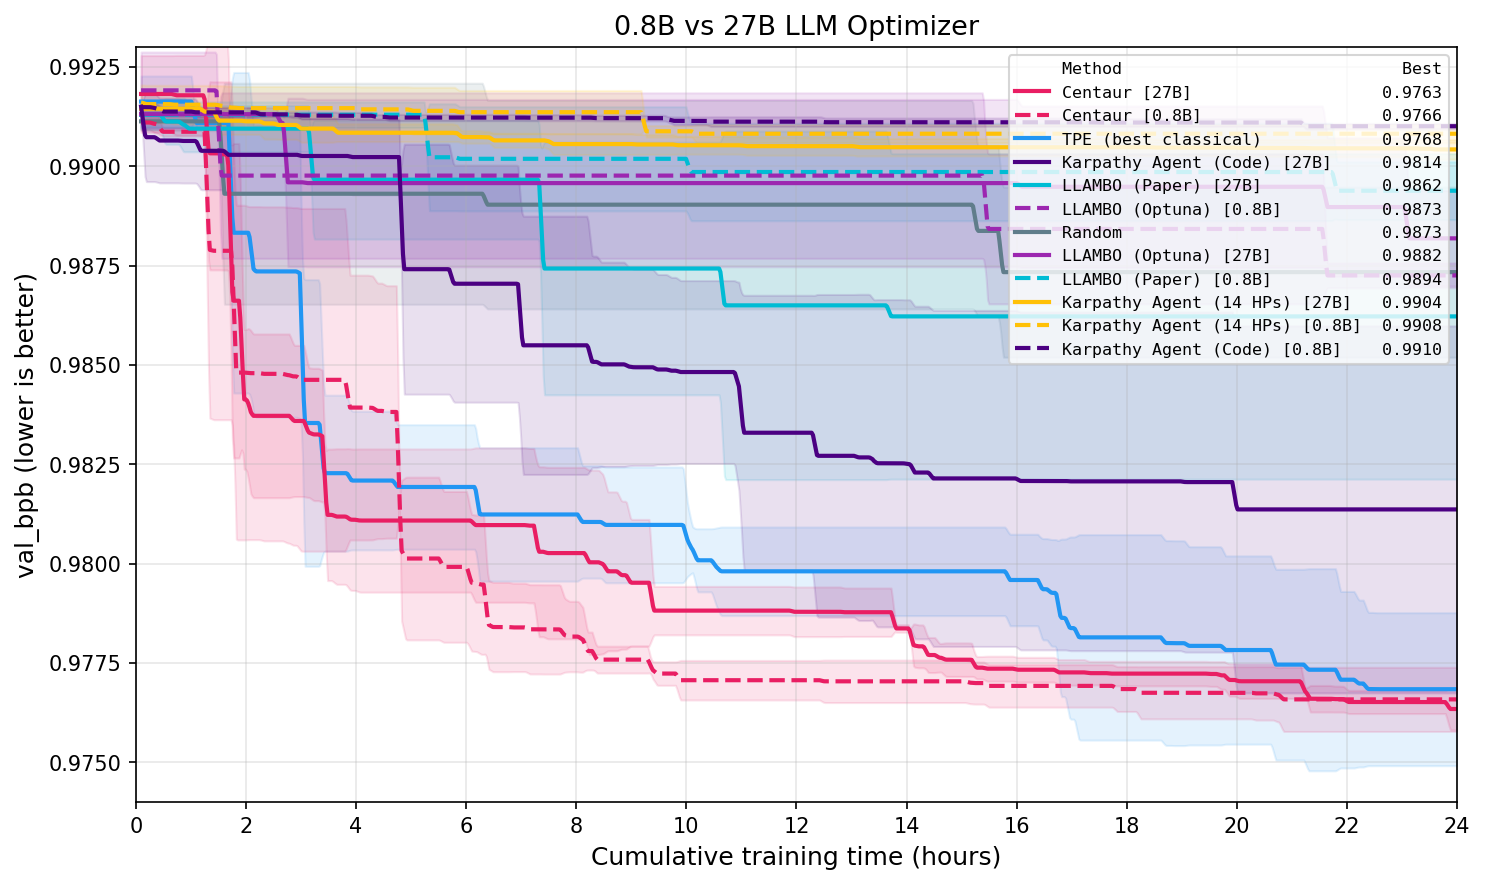
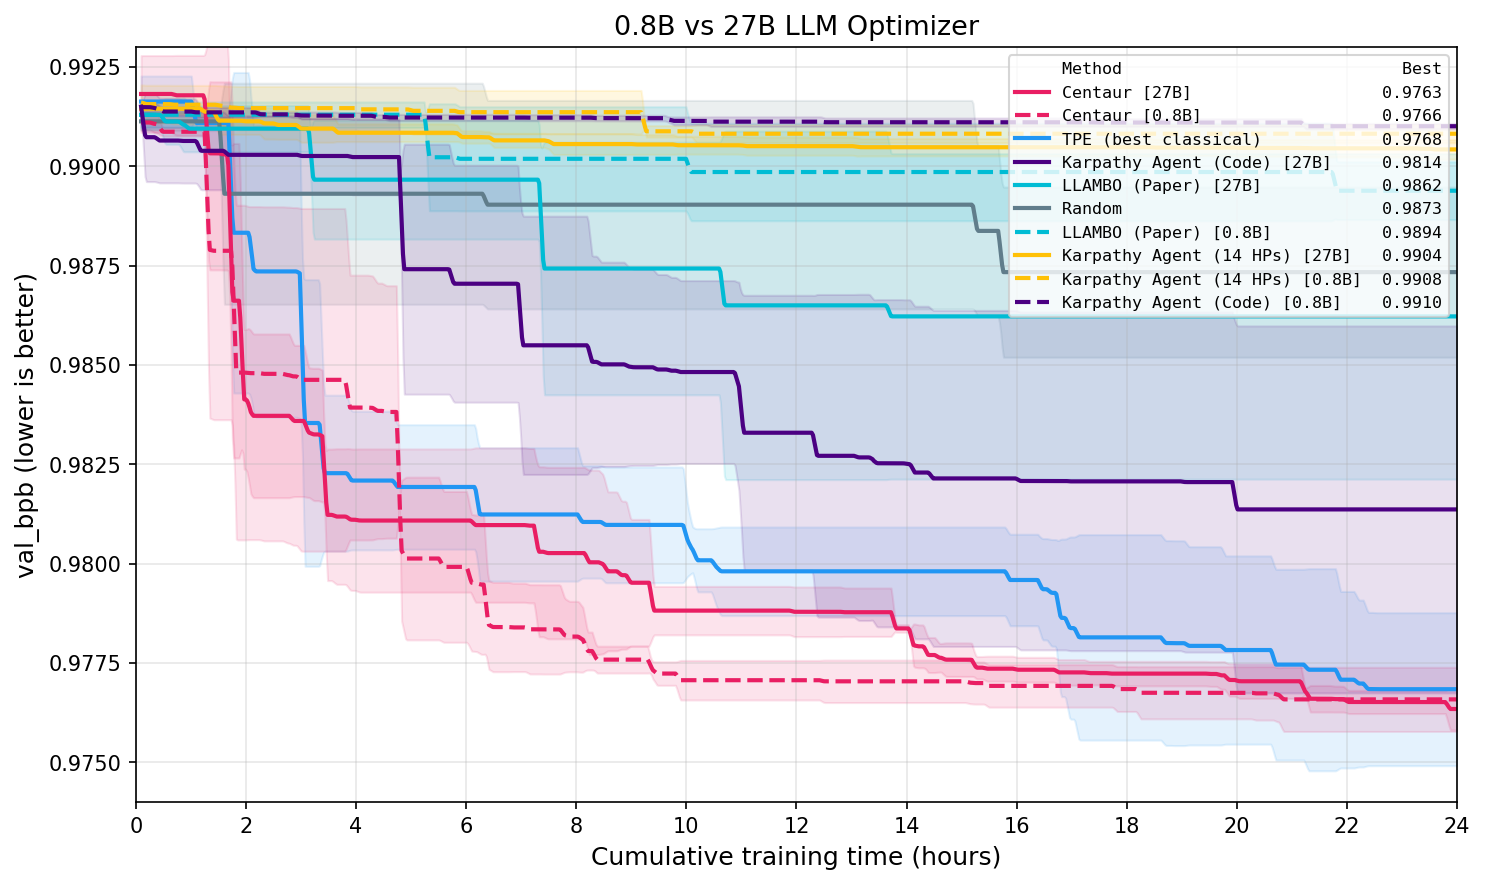
Remove LLAMBO Optuna from main figures, reduce band opacity to 0.03

Changed region(s): [[0.0929, 0.0916, 0.9912, 0.4276]]

diff --git a/scripts/plot_convergence.py b/scripts/plot_convergence.py
@@ -205,7 +205,7 @@ def plot_convergence_multi(
         best_val = np.nanmin(mean)
         line, = ax.plot(x, mean, color=style["color"], linewidth=2,
                         linestyle=style.get("linestyle", "-"))
-        ax.fill_between(x, mean - std, mean + std, color=style["color"], alpha=0.12)
+        ax.fill_between(x, mean - std, mean + std, color=style["color"], alpha=0.03)
         ranking.append((best_val, line, style["label"]))
 
     ax.set_xlabel("Trial", fontsize=12)
@@ -262,7 +262,6 @@ BACKENDS_27B = {
     "centaur_Qwen3_5_27B": {"label": "Centaur (CMA-ES+LLM)", "color": "#E91E63"},  # pink
     "karpathy_agent_Qwen3_5_27B": {"label": "Karpathy Agent (Code)", "color": "#4B0082"},  # purple
     "karpathy_agent_hps_Qwen3_5_27B": {"label": "Karpathy Agent (14 HPs)", "color": "#FFC107"},  # amber/gold
-    "llambo_Qwen3_5_27B": {"label": "LLAMBO (Optuna)", "color": "#9C27B0"},  # purple
     "llambo_original_Qwen3_5_27B": {"label": "LLAMBO (Paper)", "color": "#00BCD4"},  # cyan
     "random": {"label": "Random", "color": "#607D8B"},         # grey
 }
@@ -274,8 +273,6 @@ BACKENDS_ALL = {
     "centaur_Qwen3_5_0_8B": {"label": "Centaur [0.8B]", "color": "#E91E63", "linestyle": "--"},
     "llambo_original_Qwen3_5_27B": {"label": "LLAMBO (Paper) [27B]", "color": "#00BCD4", "linestyle": "-"},
     "llambo_original": {"label": "LLAMBO (Paper) [0.8B]", "color": "#00BCD4", "linestyle": "--"},
-    "llambo_Qwen3_5_27B": {"label": "LLAMBO (Optuna) [27B]", "color": "#9C27B0", "linestyle": "-"},
-    "llambo": {"label": "LLAMBO (Optuna) [0.8B]", "color": "#9C27B0", "linestyle": "--"},
     "karpathy_agent_hps_Qwen3_5_27B": {"label": "Karpathy Agent (14 HPs) [27B]", "color": "#FFC107", "linestyle": "-"},
     "karpathy_agent_hps": {"label": "Karpathy Agent (14 HPs) [0.8B]", "color": "#FFC107", "linestyle": "--"},
     "karpathy_agent_Qwen3_5_27B": {"label": "Karpathy Agent (Code) [27B]", "color": "#4B0082", "linestyle": "-"},
